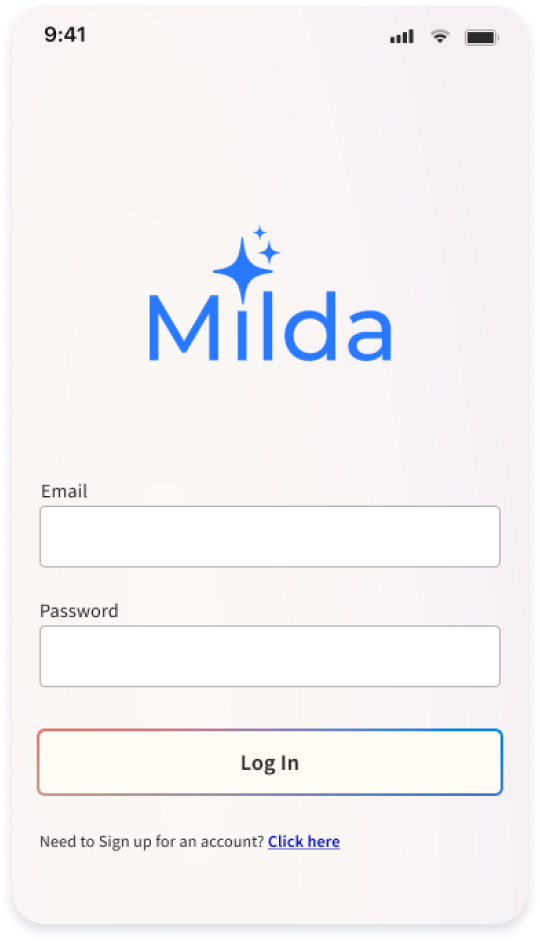
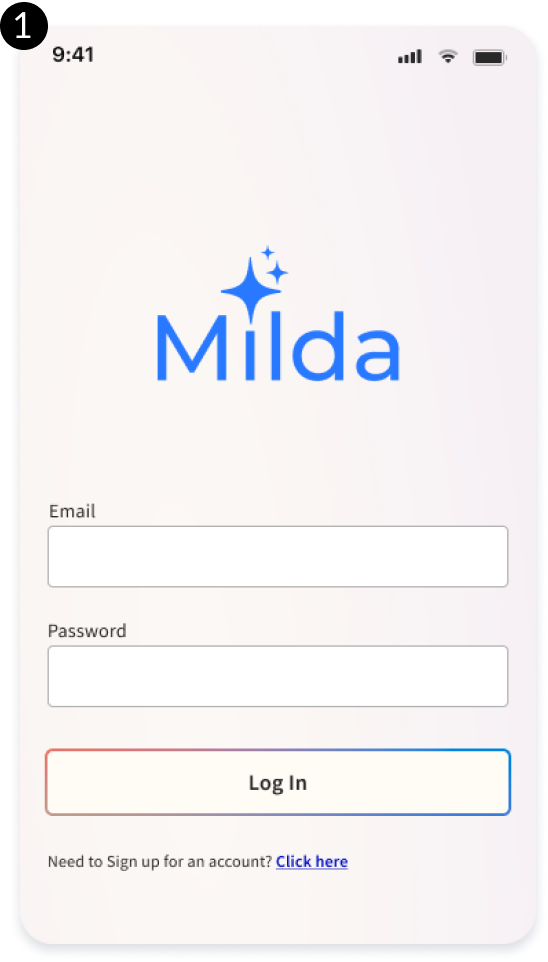
Update Milda with new images

diff --git a/milda.html b/milda.html
@@ -801,14 +801,14 @@
                   </a>
                 </div>
                 <p class="detail mt-4">
-                  <strong>Login Screen</strong> - we discovered this would be
+                  <strong>1. Login Screen</strong> - we discovered this would be
                   needed to create a profile for the user.
                 </p>
                 <p class="detail">
-                  <strong>Collection Overview Screen</strong> - this would serve
-                  as the central hub of the app, from where a user could add new
-                  items and collections, navigate to existing collections, and
-                  see expiration warnings
+                  <strong>2. Collection Overview Screen</strong> - this would
+                  serve as the central hub of the app, from where a user could
+                  add new items and collections, navigate to existing
+                  collections, and see expiration warnings
                 </p>
               </div>
             </div>
@@ -858,12 +858,12 @@
                   </a>
                 </div>
                 <p class="detail mt-4">
-                  <strong>Add Item Screen</strong> - a user would need to enter
-                  information about their products into the app, so it was
+                  <strong>3.Add Item Screen</strong> - a user would need to
+                  enter information about their products into the app, so it was
                   important to make this process user friendly.
                 </p>
                 <p class="detail">
-                  <strong>Add Item Screen with Input</strong> - showing how a
+                  <strong>4. Add Item Screen with Input</strong> - showing how a
                   user would add a product's name.
                 </p>
               </div>
@@ -910,11 +910,11 @@
                   </a>
                 </div>
                 <p class="detail mt-4">
-                  <strong>Brand Screen</strong> - a user could either search for
-                  an existing brand or add a new one to the app.
+                  <strong>5. Brand Screen</strong> - a user could either search
+                  for an existing brand or add a new one to the app.
                 </p>
                 <p class="detail">
-                  <strong>Tarte Blush Screen</strong> - How an item that is
+                  <strong>6. Tarte Blush Screen</strong> - How an item that is
                   expiring soon would look to the user.
                 </p>
               </div>
@@ -968,12 +968,12 @@
                   </a>
                 </div>
                 <p class="detail mt-4">
-                  <strong>Delete Modal</strong> - How a user would delete an
+                  <strong>7. Delete Modal</strong> - How a user would delete an
                   item.
                 </p>
                 <p class="detail">
-                  <strong>Daily Items Overview</strong> - How all the items in a
-                  given collection would be displayed to the user.
+                  <strong>8. Daily Items Overview</strong> - How all the items
+                  in a given collection would be displayed to the user.
                 </p>
               </div>
             </div>
